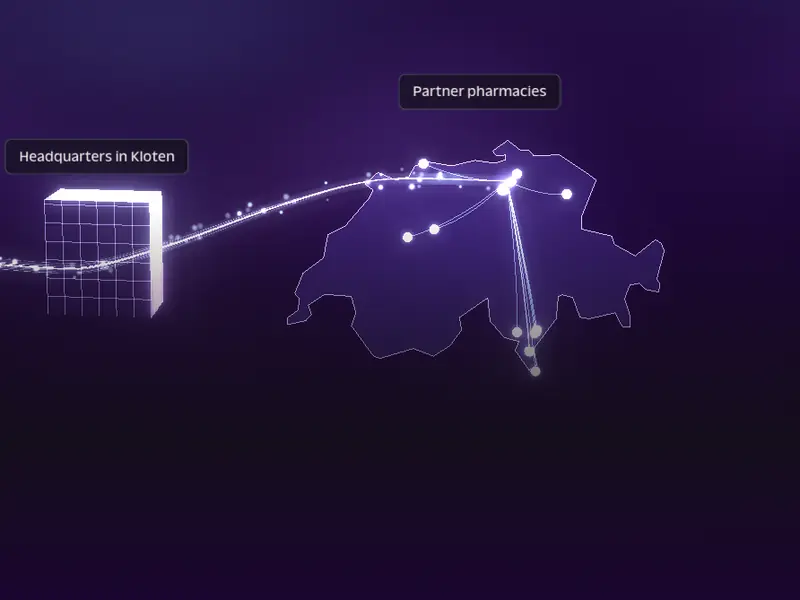
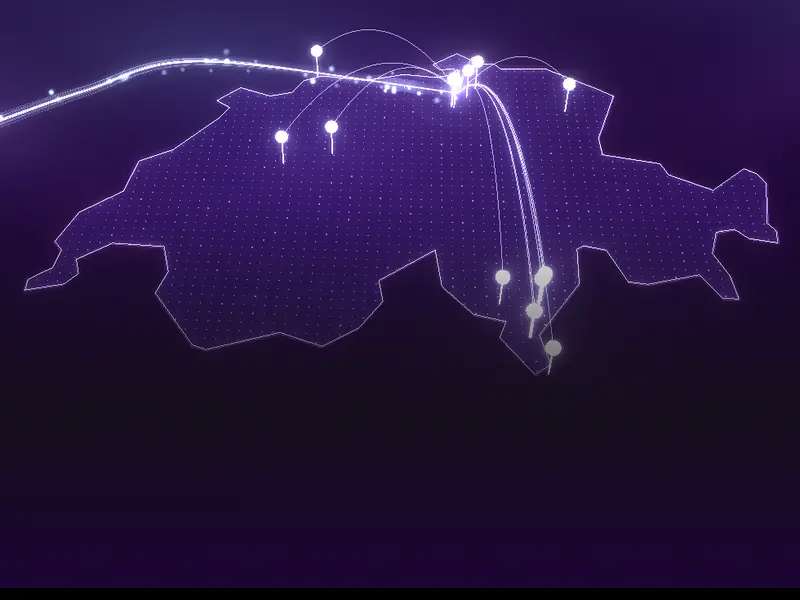
Redraw the pharmacy finale: larger tilted map with pins and light arcs
Switzerland lies back in perspective with a dotted fill, light arcs
rise from Kloten to each partner pharmacy, a pin grows where a parcel
lands and a ring spreads from it.

Changed region(s): [[0.0, 0.03, 0.9688, 0.63], [0.0, 0.96, 1.0, 1.0], [0.25, 0.57, 0.2812, 0.6]]

diff --git a/index.html b/index.html
@@ -2130,7 +2130,8 @@ function stwP(F,N){ var k=stwK(N); for(var i=1;i<k.length;i++) if(F<=k[i][0]) re
     /* soft light behind the objects so glass and line separate from the background */
     var pools=[pool(-38,2,-6,1,0x5b4fc4,0),pool(-26,1,-9,40,0x3f8f7c,0),pool(12.5,2,-7,28,0x3f8f7c,0),pool(44,0,-9,40,0x5b4fc4,0)];
     /* the route: one thin line with a white core, a soft mint halo, and a pulse that runs with the scroll */
-    var MAPC=new THREE.Vector3(44,0,-4), MK=7, MKY=10.2; function mapP(lon,lat,z){ return new THREE.Vector3(MAPC.x+(lon-8.23)*MK,MAPC.y+(lat-46.8)*MKY,MAPC.z+(z||0)); }
+    var MAPC=new THREE.Vector3(50,-3,-8), MK=11.5, MKY=16.6, MAPR=-.98; var MAPM=new THREE.Matrix4().compose(MAPC,new THREE.Quaternion().setFromEuler(new THREE.Euler(MAPR,0,0)),new THREE.Vector3(1,1,1));
+    function mapL(lon,lat,z){ return new THREE.Vector3((lon-8.23)*MK,(lat-46.8)*MKY,z||0); } function mapP(lon,lat,z){ return mapL(lon,lat,z).applyMatrix4(MAPM); }
     var KLO=mapP(8.5815,47.4518,.3);
     var curve=new THREE.CatmullRomCurve3([new THREE.Vector3(-44,-.4,.6),new THREE.Vector3(-32,-.4,.6),new THREE.Vector3(-20,-.4,.6),new THREE.Vector3(-9,-.5,.6),new THREE.Vector3(1,-.8,.4),new THREE.Vector3(8,-1,.8),new THREE.Vector3(12.5,-.6,1.2),new THREE.Vector3(19,1.4,.6),new THREE.Vector3(28,4.6,-1.4),new THREE.Vector3(36,6.6,-3),KLO],false,'catmullrom',.45);
     var uProg={value:0}, uPulse={value:-1};
@@ -2193,36 +2194,50 @@ function stwP(F,N){ var k=stwK(N); for(var i=1;i<k.length;i++) if(F<=k[i][0]) re
       var g=new THREE.BufferGeometry(); g.setAttribute('position',new THREE.Float32BufferAttribute(p,3));
       var l=new THREE.LineSegments(g,new THREE.LineBasicMaterial({color:0xc9c2ff,transparent:true,opacity:0,blending:THREE.AdditiveBlending,depthWrite:false,fog:false})); hq.add(l); hq.userData.lines=l;
       var door=new THREE.Mesh(new THREE.PlaneGeometry(2.2,2.6),new THREE.MeshBasicMaterial({color:0x9fe8d2,transparent:true,opacity:0,blending:THREE.AdditiveBlending,depthWrite:false,fog:false})); door.position.set(0,1.3,D/2+.05); hq.add(door); hq.userData.door=door; })();
-    /* 5. Switzerland as a flat outline: the line arrives at Kloten and parcels go out to partner pharmacies across the country.
-       Pharmacies are the client's partner pharmacies, placed from their Google Maps pins. */
-    var map=new THREE.Group(); jg.add(map); var mapMats=[];
-    (function(){ var CHp=(window.COUNTRIES&&COUNTRIES['756'])?COUNTRIES['756'].p:[];
-      CHp.forEach(function(poly){ var r=poly[0], pts=[]; for(var i=0;i<r.length;i+=2) pts.push(mapP(r[i],r[i+1]));
+    /* 5. the delivery map: Switzerland, large and laid back in perspective, filled with points like the globe.
+       From Kloten, light arcs rise and land on each partner pharmacy; a pin stands at every pharmacy and a ring spreads when the parcel arrives. */
+    var map=new THREE.Group(); map.position.copy(MAPC); map.rotation.x=MAPR; jg.add(map); var mapMats=[];
+    var CHp=(window.COUNTRIES&&COUNTRIES['756'])?COUNTRIES['756'].p:[];
+    (function(){ var rings=[];
+      CHp.forEach(function(poly){ var r=poly[0], pts=[]; for(var i=0;i<r.length;i+=2) pts.push(mapL(r[i],r[i+1])); rings.push(r);
         var sh=new THREE.Shape(pts.map(function(v){ return new THREE.Vector2(v.x,v.y); }));
-        var fill=new THREE.Mesh(new THREE.ShapeGeometry(sh),new THREE.MeshBasicMaterial({color:0x5b3fb8,transparent:true,opacity:0,depthWrite:false,fog:false})); fill.position.z=MAPC.z-.05; map.add(fill); mapMats.push([fill.material,.32]);
-        var lg=new THREE.BufferGeometry().setFromPoints(pts.concat([pts[0]])); var ln=new THREE.Line(lg,new THREE.LineBasicMaterial({color:0xc9c2ff,transparent:true,opacity:0,blending:THREE.AdditiveBlending,fog:false})); map.add(ln); mapMats.push([ln.material,.9]); }); })();
+        var fill=new THREE.Mesh(new THREE.ShapeGeometry(sh),new THREE.MeshBasicMaterial({color:0x3a1a78,transparent:true,opacity:0,depthWrite:false,fog:false})); fill.position.z=-.05; map.add(fill); mapMats.push([fill.material,.55]);
+        var lg=new THREE.BufferGeometry().setFromPoints(pts.concat([pts[0]]));
+        var ln=new THREE.Line(lg,new THREE.LineBasicMaterial({color:0xd6ccff,transparent:true,opacity:0,blending:THREE.AdditiveBlending,fog:false})); map.add(ln); mapMats.push([ln.material,1]);
+        var glow=new THREE.Line(lg,new THREE.LineBasicMaterial({color:0x8a6cf0,transparent:true,opacity:0,blending:THREE.AdditiveBlending,fog:false})); glow.position.z=-.08; glow.scale.setScalar(1.004); map.add(glow); mapMats.push([glow.material,.5]); });
+      function inside(lon,lat){ var o=false; rings.forEach(function(r){ for(var i=0,j=r.length-2;i<r.length;j=i,i+=2){ var xi=r[i],yi=r[i+1],xj=r[j],yj=r[j+1]; if((yi>lat)!==(yj>lat)&&lon<(xj-xi)*(lat-yi)/(yj-yi)+xi) o=!o; } }); return o; }
+      var dp=[]; for(var lat=45.8;lat<47.85;lat+=.045) for(var lon=5.9;lon<10.55;lon+=.064){ if(inside(lon,lat)){ var v=mapL(lon,lat,.02); dp.push(v.x,v.y,v.z); } }
+      var dg=new THREE.BufferGeometry(); dg.setAttribute('position',new THREE.Float32BufferAttribute(dp,3));
+      var dots=new THREE.Points(dg,new THREE.PointsMaterial({color:0xb6a6ff,size:.22,transparent:true,opacity:0,depthWrite:false,fog:false})); map.add(dots); mapMats.push([dots.material,.75]); })();
+    var KL=mapL(8.5815,47.4518,.3);
     /* partner pharmacies from the client's list (Google Maps pins), name, lon, lat */
     var PH=[['Rosengarten Apotheke, Kloten',8.6310,47.4430],['Stauffacher-Apotheke, Zurich',8.5279,47.3730],['Apotheke Unitobler, Bern',7.4301,46.9551],['Alpstein Apotheke, Swiss Bio Pharma',9.2849,47.3539],['Apotheke Sumiswald',7.7444,47.0291],['Apotheke zur Waage, Basel',7.5894,47.5775],['Farmacia Camorino',9.0015,46.1670],['Farmacia Cattaneo, Lugano',8.9510,46.0046],['Farmacia Fenice, Bellinzona',9.0139,46.1784],['Farmacia Fiore, Locarno',8.7879,46.1685],['Farmacia Internazionale dr. Merloni',9.0316,45.8330],['Farmacia Portone, Bellinzona',9.0231,46.1939],['Farmacia San Nicolao, Lugano',8.9437,46.0059],['TopPharm Apotheke Wuelflingen, Winterthur',8.6936,47.5107],['TopPharm Limmatplatz Apotheke, Zurich',8.5323,47.3839],['Sonnen-Apotheke, Zurich',8.5459,47.3681]];
-    var parcels=[], dotPos=[]; var phDotGeo=new THREE.SphereGeometry(.42,16,12), phDotMat=new THREE.MeshBasicMaterial({color:0xe9fff8,transparent:true,opacity:0,fog:false}); mapMats.push([phDotMat,.95]);
-    var parcelGeo=new THREE.BoxGeometry(.9,.9,.9), parcelMat=glassMat({rim:1.5,body:'vec3(.3,.18,.55)',a:'.5'}); mapMats.push([parcelMat,1,true]);
-    PH.forEach(function(ph,i){ var to=mapP(ph[1],ph[2],.3); dotPos.push(to.x,to.y,to.z);
-      var mid=KLO.clone().lerp(to,.5); mid.z+=3+KLO.distanceTo(to)*.25; var cv=new THREE.QuadraticBezierCurve3(KLO.clone(),mid,to);
-      var ag=new THREE.BufferGeometry().setFromPoints(cv.getPoints(40)); var arc=new THREE.Line(ag,new THREE.LineBasicMaterial({color:0x9fe8d2,transparent:true,opacity:0,blending:THREE.AdditiveBlending,depthWrite:false,fog:false})); arc.geometry.setDrawRange(0,0); map.add(arc);
-      var dot=new THREE.Mesh(phDotGeo,phDotMat); dot.position.copy(to); map.add(dot); var m=new THREE.Mesh(parcelGeo,parcelMat); m.visible=false; map.add(m); parcels.push({cv:cv,arc:arc,m:m,t0:.72+i*.0095}); });
-    var dg=new THREE.BufferGeometry(); dg.setAttribute('position',new THREE.Float32BufferAttribute(dotPos,3));
-    var phDots=new THREE.Points(dg,new THREE.PointsMaterial({map:glowTex,color:0xd8fff0,size:3.6,transparent:true,opacity:0,blending:THREE.AdditiveBlending,depthWrite:false,fog:false})); map.add(phDots);
-    var kloDot=new THREE.Sprite(new THREE.SpriteMaterial({map:glowTex,color:0xffffff,transparent:true,opacity:0,blending:THREE.AdditiveBlending,depthWrite:false,fog:false})); kloDot.position.copy(KLO); kloDot.scale.set(2.4,2.4,1); map.add(kloDot);
-    var K=[[0,-38,0,24],[.14,-30,0,24],[.3,-16,0,26],[.42,-2,.5,32],[.52,11,1,34],[.62,18,2,44],[.74,40,1,62],[.88,44,0,66],[1,30,0,100]];
+    var parcels=[], pinGeo=new THREE.CylinderGeometry(.06,.06,2.6,8), headGeo=new THREE.SphereGeometry(.48,18,12);
+    var pinMat=new THREE.MeshBasicMaterial({color:0xe9fff8,transparent:true,opacity:0,fog:false}); mapMats.push([pinMat,.95]);
+    var parcelGeo=new THREE.BoxGeometry(1,1,1), parcelMat=glassMat({rim:1.6,body:'vec3(.36,.22,.62)',a:'.6'}); mapMats.push([parcelMat,1,true]);
+    PH.forEach(function(ph,i){ var to=mapL(ph[1],ph[2],0);
+      var pin=new THREE.Group(); pin.position.copy(to); map.add(pin);
+      var stem=new THREE.Mesh(pinGeo,pinMat); stem.rotation.x=Math.PI/2; stem.position.z=1.3; pin.add(stem); var head=new THREE.Mesh(headGeo,pinMat); head.position.z=2.7; pin.add(head);
+      var ring=new THREE.Mesh(new THREE.RingGeometry(.9,1.15,40),new THREE.MeshBasicMaterial({color:0x9fe8d2,transparent:true,opacity:0,blending:THREE.AdditiveBlending,depthWrite:false,side:THREE.DoubleSide,fog:false})); ring.position.z=.05; pin.add(ring);
+      var dist=KL.distanceTo(to), mid=KL.clone().lerp(to,.5); mid.z=4+dist*.45; var cv=new THREE.QuadraticBezierCurve3(KL.clone(),mid,to.clone().setZ(2.7));
+      var ag=new THREE.BufferGeometry().setFromPoints(cv.getPoints(60));
+      var arc=new THREE.Line(ag,new THREE.LineBasicMaterial({color:0xc9f7e8,transparent:true,opacity:0,blending:THREE.AdditiveBlending,depthWrite:false,fog:false})); arc.geometry.setDrawRange(0,0); map.add(arc);
+      var m=new THREE.Mesh(parcelGeo,parcelMat); m.visible=false; map.add(m);
+      parcels.push({cv:cv,arc:arc,m:m,pin:pin,ring:ring,t0:.72+i*.0072}); });
+    var kloDot=new THREE.Sprite(new THREE.SpriteMaterial({map:glowTex,color:0xffffff,transparent:true,opacity:0,blending:THREE.AdditiveBlending,depthWrite:false,fog:false})); kloDot.position.copy(KL); kloDot.scale.set(4,4,1); map.add(kloDot);
+    var kloRing=new THREE.Mesh(new THREE.RingGeometry(1.4,1.7,48),new THREE.MeshBasicMaterial({color:0xffffff,transparent:true,opacity:0,blending:THREE.AdditiveBlending,depthWrite:false,side:THREE.DoubleSide,fog:false})); kloRing.position.copy(KL); map.add(kloRing);
+    var K=[[0,-38,0,24],[.14,-30,0,24],[.3,-16,0,26],[.42,-2,.5,32],[.52,11,1,34],[.62,22,1,50],[.74,48,-5,64],[.88,50,-6,66],[1,44,-6,74]];
     var tmp=new THREE.Vector3(), Tl=new THREE.Vector3(), Pw=new THREE.Vector3();
-    var stepsEl=document.querySelector('.jr-steps'), steps=stepsEl?[].slice.call(stepsEl.querySelectorAll('li')):[], anchors=[new THREE.Vector3(-24,8.4,0),new THREE.Vector3(12.5,7,0),new THREE.Vector3(44,12.5,-4)], show=[.04,.44,.7];
+    var stepsEl=document.querySelector('.jr-steps'), steps=stepsEl?[].slice.call(stepsEl.querySelectorAll('li')):[], anchors=[new THREE.Vector3(-24,8.4,0),new THREE.Vector3(12.5,7,0),new THREE.Vector3(50,12,-16)], show=[.04,.44,.7];
     function apply(p){
       uProg.value=.002+1.098*ss(.06,.74,p); uPulse.value=p<.74?uProg.value-.02:((p-.74)/.26*3)%1;
       curve.getPointAt(Math.min(1,uProg.value),tmp); tipLight.position.copy(tmp).add(new THREE.Vector3(0,1.2,2)); tipLight.intensity=.7*(1-ss(.8,.95,p));
       var r=ss(0,.08,p)*(1-.65*ss(.5,.66,p)); room.visible=r>.001; roomMats.forEach(function(m){ m.uniforms.op.value=r; }); room.userData.led.material.opacity=.7*r; room.userData.frame.material.opacity=.35*r; growGlow.userData.o=.3*r; pools[1].userData.o=.22*r;
       var bt=ss(.16,.74,p); batch.visible=p>.14&&p<.76; curve.getPointAt(Math.min(1,bt),tmp); batch.position.copy(tmp); batch.scale.setScalar(.9*(1-ss(.72,.76,p))+.001); batch.rotation.y=p*9;
       var h=ss(.3,.42,p); hq.visible=h>.001; hqMats.forEach(function(m){ m.uniforms.op.value=h; m.uniforms.fl.value=.6*Math.max(0,1-Math.abs(batch.position.x-12.5)/4)*(batch.visible?1:0); }); hq.userData.lines.material.opacity=.6*h; hq.userData.door.material.opacity=.5*h*Math.max(0,1-Math.abs(batch.position.x-12.5)/3); pools[2].userData.o=.24*h;
-      var mp=ss(.6,.72,p); map.visible=mp>.001; mapMats.forEach(function(a){ if(a[2]) a[0].uniforms.op.value=mp; else a[0].opacity=a[1]*mp; }); phDots.material.opacity=.9*ss(.7,.8,p); kloDot.material.opacity=ss(.7,.76,p); pools[3].userData.o=.28*mp;
-      parcels.forEach(function(q){ var u=ss(q.t0,q.t0+.12,p); q.arc.geometry.setDrawRange(0,Math.round(41*u)); q.arc.material.opacity=.55*mp; q.m.visible=u>.001&&u<.999; if(q.m.visible){ q.cv.getPoint(u,tmp); q.m.position.copy(tmp); q.m.rotation.set(u*4,u*6,0); } }); }
+      var mp=ss(.6,.72,p); map.visible=mp>.001; mapMats.forEach(function(a){ if(a[2]) a[0].uniforms.op.value=mp; else a[0].opacity=a[1]*mp; }); kloDot.material.opacity=ss(.7,.76,p); var kp=(p*14)%1; kloRing.scale.setScalar(1+kp*1.6); kloRing.material.opacity=.6*(1-kp)*ss(.7,.76,p); pools[3].userData.o=.3*mp;
+      parcels.forEach(function(q){ var u=ss(q.t0,q.t0+.12,p); q.arc.geometry.setDrawRange(0,Math.round(61*u)); q.arc.material.opacity=.6*mp; q.m.visible=u>.001&&u<.999; if(q.m.visible){ q.cv.getPoint(u,tmp); q.m.position.copy(tmp); q.m.rotation.set(u*4,u*6,0); }
+        var land=ss(q.t0+.1,q.t0+.16,p); q.pin.scale.set(1,1,Math.max(.001,.25+.75*ss(q.t0+.1,q.t0+.13,p))); q.ring.scale.setScalar(1+land*2.4); q.ring.material.opacity=.7*(land>0&&land<1?1-land:0)*mp; }); }
     function camLocal(p,pos,look){ var i=0; while(i<K.length-2&&p>K[i+1][0]) i++; var a=K[i], b=K[i+1], u=ss(a[0],b[0],p);
       var tx=a[1]+(b[1]-a[1])*u, ty=a[2]+(b[2]-a[2])*u, d=a[3]+(b[3]-a[3])*u; look.set(tx-d*.04,ty+d*.03,0); pos.set(look.x+d*.12,look.y+d*.22,d); jg.localToWorld(look); jg.localToWorld(pos); }
     var lastP=-1;
